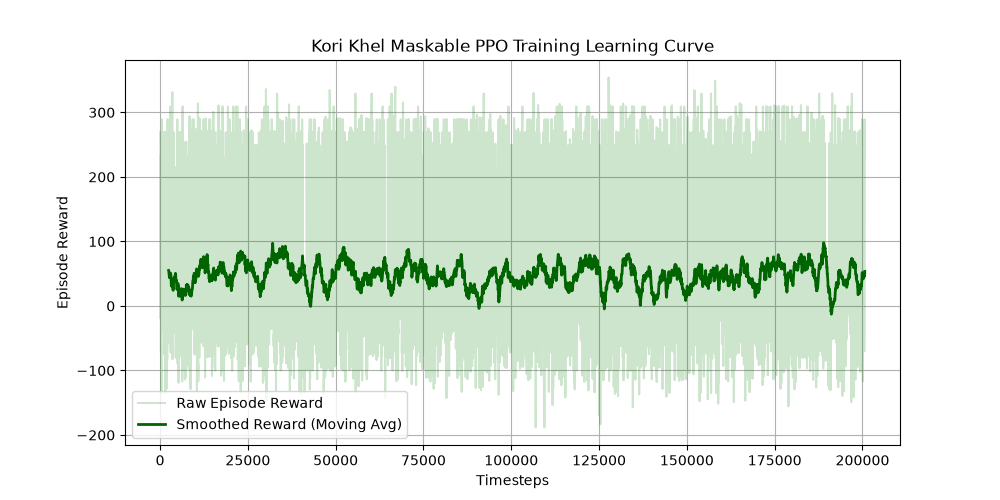
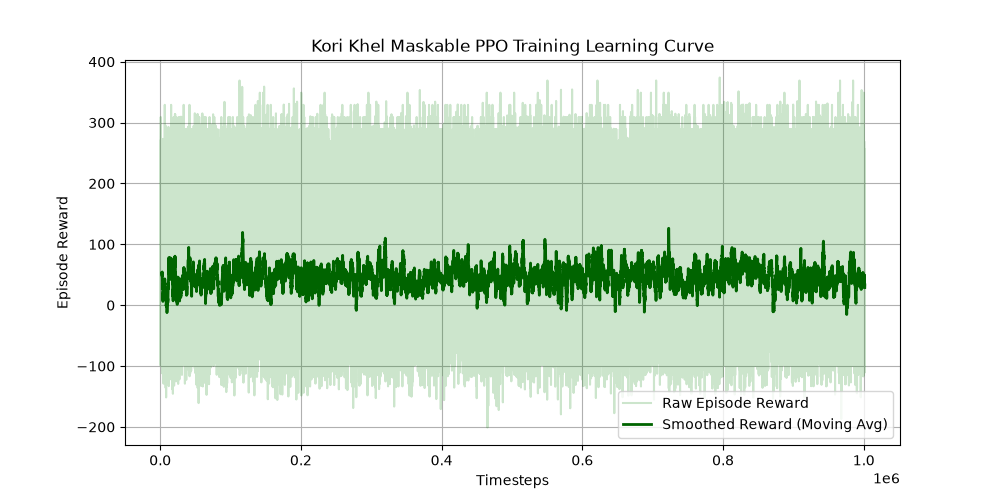
fix: neatly render token clusters as a 4x4 grid instead of randomly stacking them

diff --git a/visualization/templates/index.html b/visualization/templates/index.html
@@ -295,18 +295,38 @@ function drawTokens(positions) {
         const cell = cellMap[key];
         if (!cell) continue;
         const list = bucket[key];
-        const offsets = list.length === 1 ? [[0,0]]
-                      : list.length === 2 ? [[-5,0],[5,0]]
-                      : list.length === 3 ? [[-6,-6],[6,-6],[0,6]]
-                      :                    [[-6,-6],[6,-6],[-6,6],[6,6]];
+        
+        // Define exact offsets for up to 16 tokens to form a neat 4x4 grid
+        const offsets = [];
+        if (list.length === 1) {
+            offsets.push([0, 0]);
+        } else if (list.length === 2) {
+            offsets.push([-5, 0], [5, 0]);
+        } else if (list.length === 3) {
+            offsets.push([-6, -6], [6, -6], [0, 6]);
+        } else if (list.length === 4) {
+            offsets.push([-6, -6], [6, -6], [-6, 6], [6, 6]);
+        } else {
+            // For > 4 tokens (up to 16), create a 4x4 grid
+            // Grid positions from -9 to +9
+            const spacing = 7; // pixels between tokens
+            const startOffset = -10.5; // center the 4x4 grid
+            for (let i = 0; i < list.length; i++) {
+                const row = Math.floor(i / 4);
+                const col = i % 4;
+                offsets.push([startOffset + row * spacing, startOffset + col * spacing]);
+            }
+        }
+
         list.forEach(({p, t}, i) => {
             const tok = document.createElement('div');
             tok.className = `token tok-p${p}`;
             tok.textContent = t;
             if (list.length > 4) {
-                tok.style.width = '11px'; tok.style.height = '11px'; tok.style.fontSize = '0.38rem';
-                tok.style.left = `calc(50% - 5.5px + ${(Math.random()-0.5)*10}px)`;
-                tok.style.top  = `calc(50% - 5.5px + ${(Math.random()-0.5)*10}px)`;
+                tok.style.width = '10px'; tok.style.height = '10px'; tok.style.fontSize = '0.35rem';
+                tok.style.borderWidth = '1px';
+                tok.style.left = `calc(50% - 5px + ${offsets[i][1]}px)`;
+                tok.style.top  = `calc(50% - 5px + ${offsets[i][0]}px)`;
             } else {
                 tok.style.left = `calc(50% - 8px + ${offsets[i][1]}px)`;
                 tok.style.top  = `calc(50% - 8px + ${offsets[i][0]}px)`;

diff --git a/evaluation/kori_khel/evaluate.py b/evaluation/kori_khel/evaluate.py
@@ -45,18 +45,22 @@ def evaluate_agent(model_path, num_episodes=100):
             roll = obs[16]
             valid_moves = env.engine.get_valid_moves(0, roll)
             
-            # PPO Model predicts the action (deterministic=True for evaluation)
-            action, _states = model.predict(obs, deterministic=True)
-            action = int(action)  # Convert numpy int to Python int
-            
-            total_actions_count += 1
-            
-            # --- EVALUATION FALLBACK ---
-            # If PPO predicts an invalid move (since standard SB3 PPO doesn't support action masking out-of-the-box),
-            # we apply a fallback to choose a valid action, but log it to see if PPO has learned the rules.
-            if action not in valid_moves:
-                fallback_actions_count += 1
-                action = int(np.random.choice(valid_moves))
+            # Guard check: If no valid moves are available (e.g. if game is over)
+            if not valid_moves:
+                action = 0  # Dummy action, will trigger the step() game_over check
+            else:
+                # PPO Model predicts the action (deterministic=True for evaluation)
+                action, _states = model.predict(obs, deterministic=True)
+                action = int(action)  # Convert numpy int to Python int
+                
+                total_actions_count += 1
+                
+                # --- EVALUATION FALLBACK ---
+                # If PPO predicts an invalid move (since standard SB3 PPO doesn't support action masking out-of-the-box),
+                # we apply a fallback to choose a valid action, but log it to see if PPO has learned the rules.
+                if action not in valid_moves:
+                    fallback_actions_count += 1
+                    action = int(np.random.choice(valid_moves))
                 
             obs, reward, terminated, truncated, info = env.step(action)
             ep_reward += reward

diff --git a/environments/kori_khel_env.py b/environments/kori_khel_env.py
@@ -57,6 +57,21 @@ class KoriKhelEnv(gym.Env):
         obs[16] = self.current_roll
         return obs
 
+    def action_masks(self) -> np.ndarray:
+        """Returns a boolean array indicating which actions are valid (True) or invalid (False)."""
+        if self.engine is None or self.engine.game_over:
+            return np.ones(self.action_space.n, dtype=bool)  # Return all True if game over to prevent crash
+
+        valid_moves = self.engine.get_valid_moves(0, self.current_roll)
+        mask = np.zeros(self.action_space.n, dtype=bool)
+        for action in valid_moves:
+            mask[action] = True
+        
+        # SB3-contrib requires at least one valid action to avoid zero probability division errors
+        if not np.any(mask):
+            mask[0] = True
+        return mask
+
     def reset(self, seed=None, options=None):
         super().reset(seed=seed)
         

diff --git a/game_engines/kori_khel/engine.py b/game_engines/kori_khel/engine.py
@@ -41,10 +41,10 @@ def coords_to_global_pos(arm_id, side, row):
 # Programmatically generate safe zones using verified physical coordinates
 GLOBAL_SAFE_ZONES = []
 for arm in range(NUM_PLAYERS):
-    # Rule: X marks are at Row 5 on both side columns, and Row 8 at the middle column tip
-    GLOBAL_SAFE_ZONES.extend(coords_to_global_pos(arm, 'right', 5))   # Row 5 Right Column
+    # Rule: X marks are at Row 3 on both side columns, and Row 8 at the middle column tip
+    GLOBAL_SAFE_ZONES.extend(coords_to_global_pos(arm, 'right', 4))   # Row 4 Right Column
     GLOBAL_SAFE_ZONES.extend(coords_to_global_pos(arm, 'middle', 8))  # Row 8 Middle Column (Tip)
-    GLOBAL_SAFE_ZONES.extend(coords_to_global_pos(arm, 'left', 5))    # Row 5 Left Column
+    GLOBAL_SAFE_ZONES.extend(coords_to_global_pos(arm, 'left', 4))    # Row 4 Left Column
 
 # Sort for consistency
 GLOBAL_SAFE_ZONES.sort()

diff --git a/evaluation/kori_khel/benchmark_results_maskable.md b/evaluation/kori_khel/benchmark_results_maskable.md
@@ -1,7 +1,7 @@
 # Kori Khel Maskable PPO Agent Evaluation Benchmark
 
 - **Total Games Played:** 100
-- **Maskable PPO Agent Win Rate:** 14.00%
-- **Average steps per game:** 37.3
-- **Average episode reward:** 21.53
+- **Maskable PPO Agent Win Rate:** 18.00%
+- **Average steps per game:** 42.4
+- **Average episode reward:** 24.18
 - **AI Rule Adherence:** 100.0% (Expected: 100.0%)
